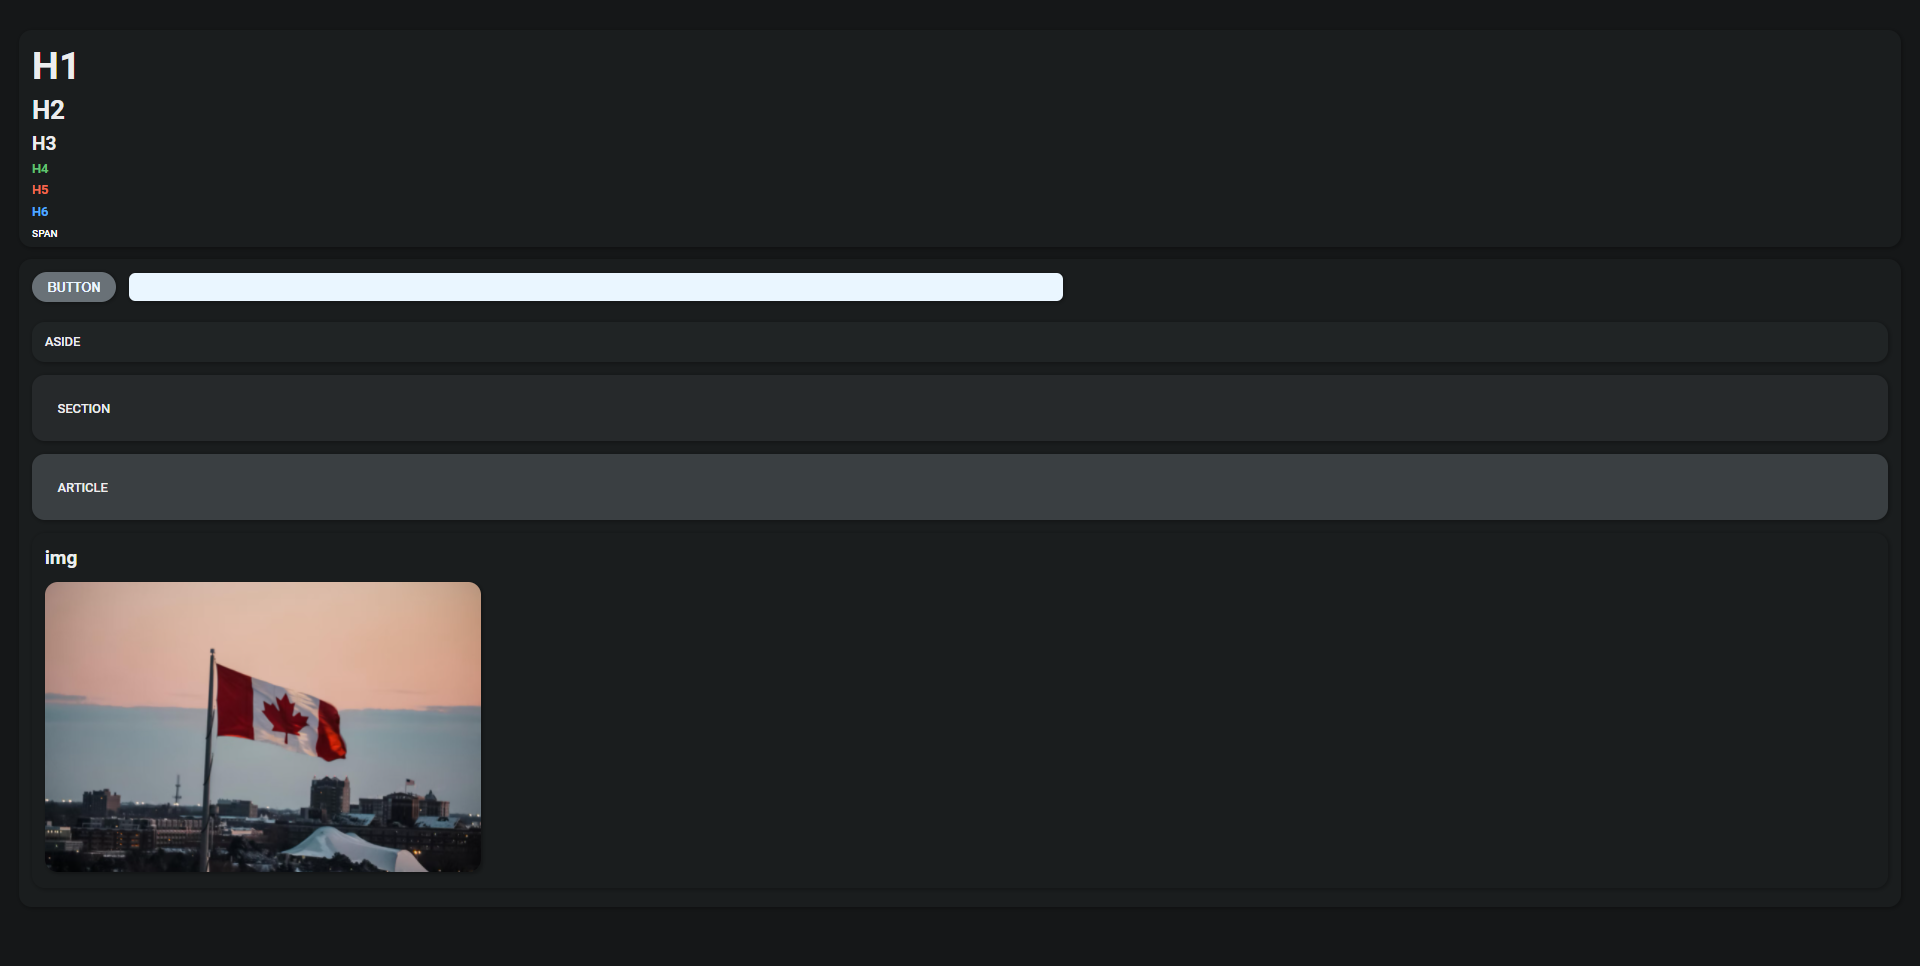
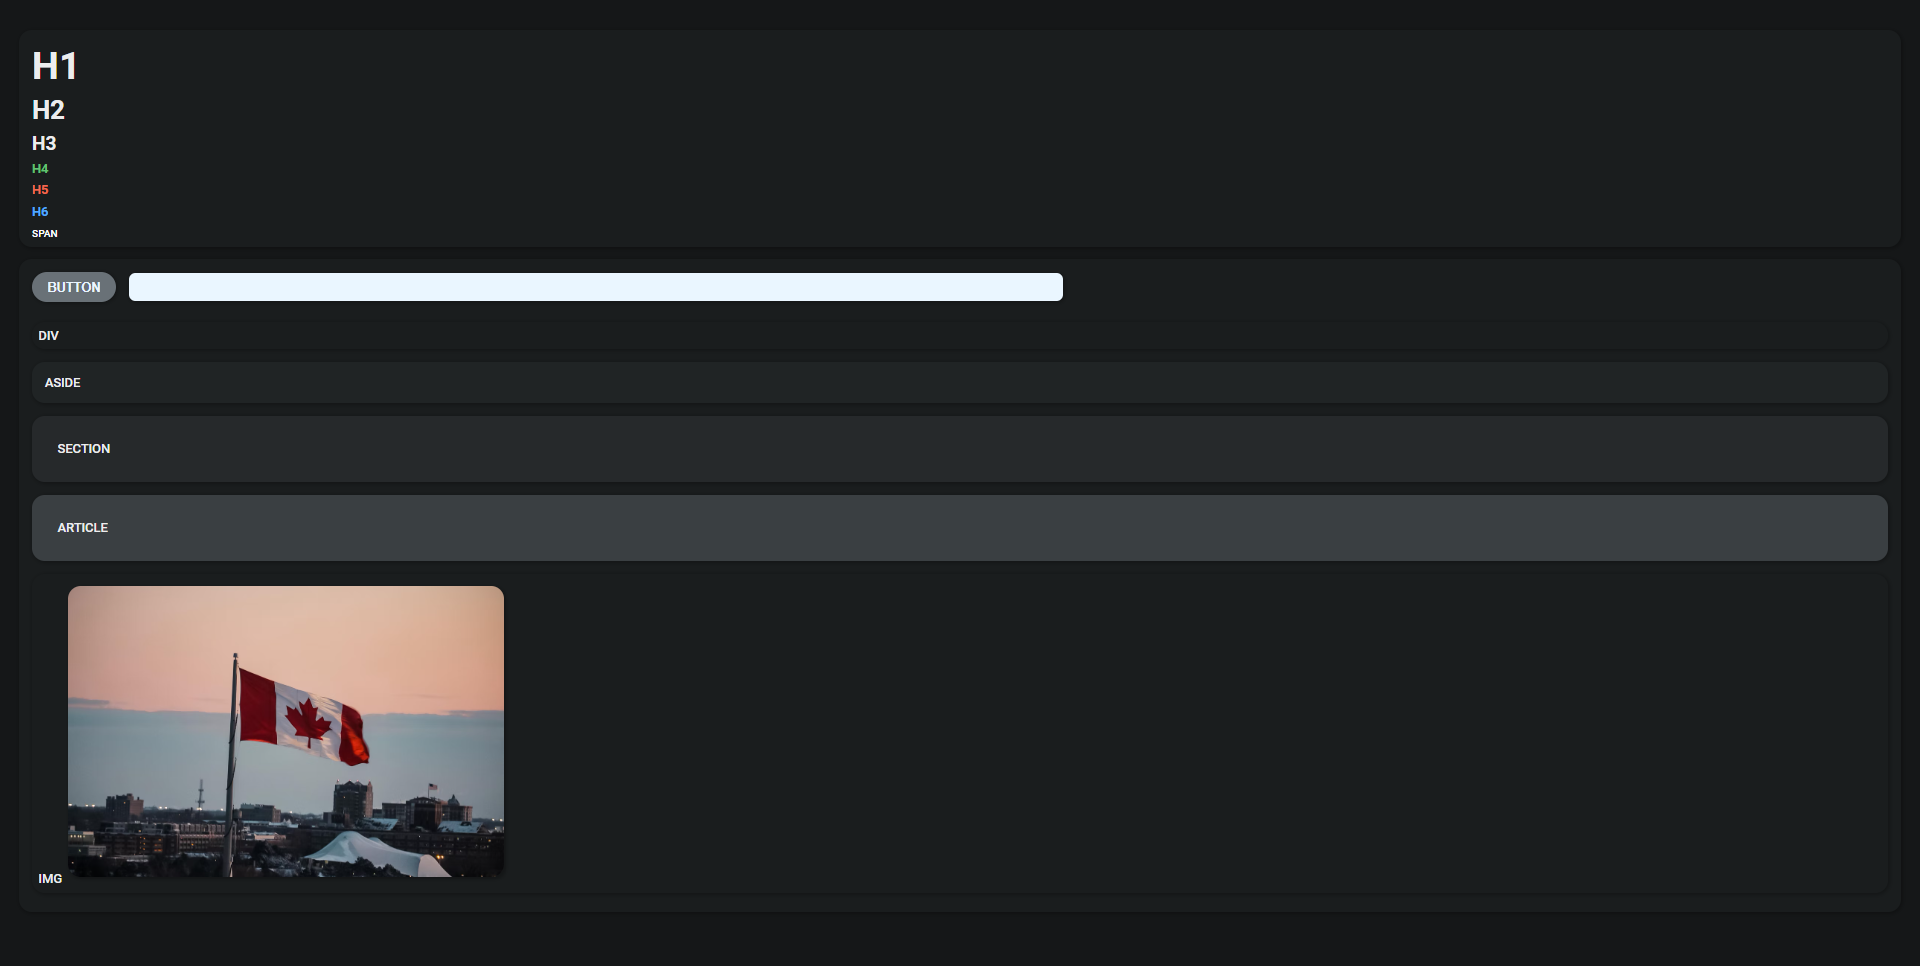
update

Changed region(s): [[0.0, 0.4969, 1.0, 0.9317], [0.0312, 0.4037, 0.0625, 0.4658], [0.0, 0.3416, 0.0312, 0.3727]]

diff --git a/src/App.tsx b/src/App.tsx
@@ -13,11 +13,12 @@ function App() {
             <div>
                 <button>BUTTON</button>
                 <input type="text" />
+                <div>DIV</div>
                 <aside>ASIDE</aside>
                 <section>SECTION</section>
                 <article>ARTICLE</article>
                 <div>
-                    <h3>img</h3>
+                    IMG
                     <img
                         src="https://images.unsplash.com/photo-1551009175-15bdf9dcb580?ixlib=rb-1.2.1&ixid=MnwxMjA3fDB8MHxwaG90by1wYWdlfHx8fGVufDB8fHx8&auto=format&fit=crop&w=1171&q=80"
                         alt="img"
